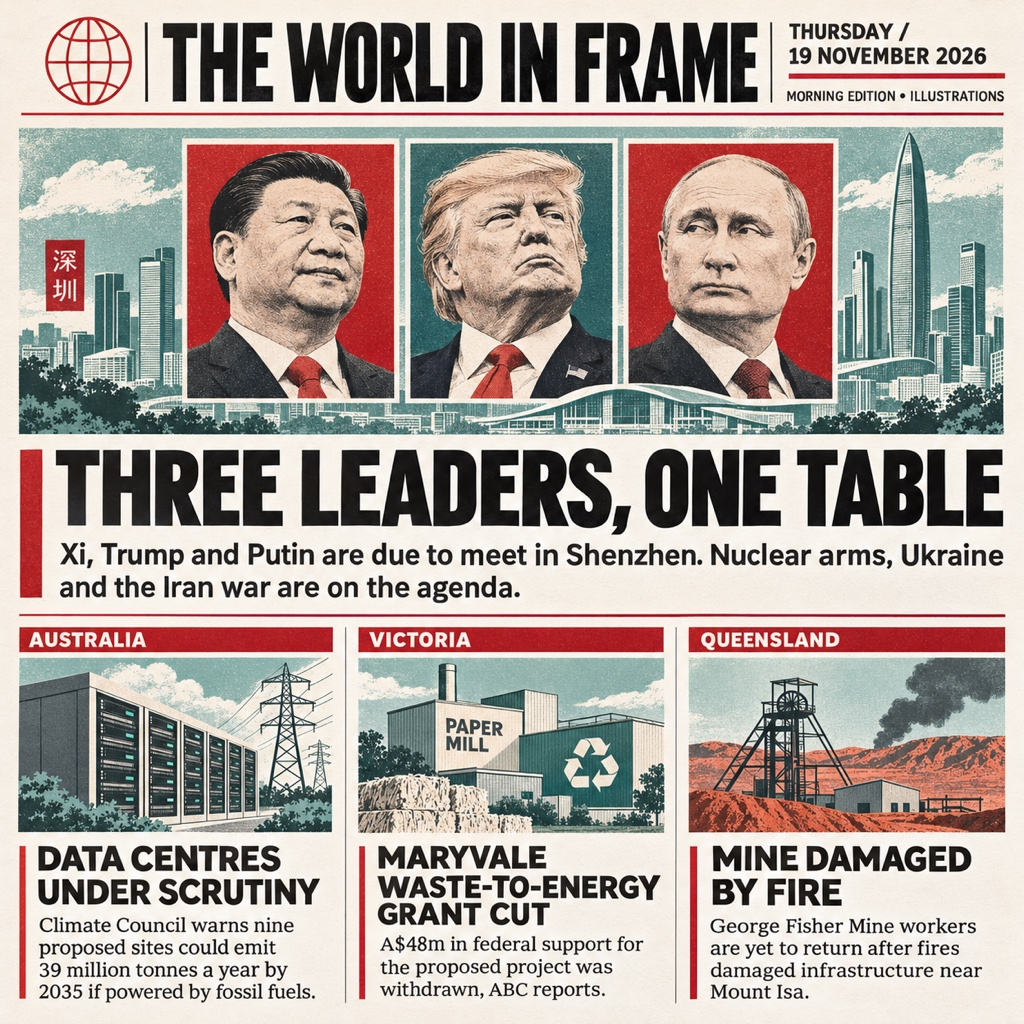
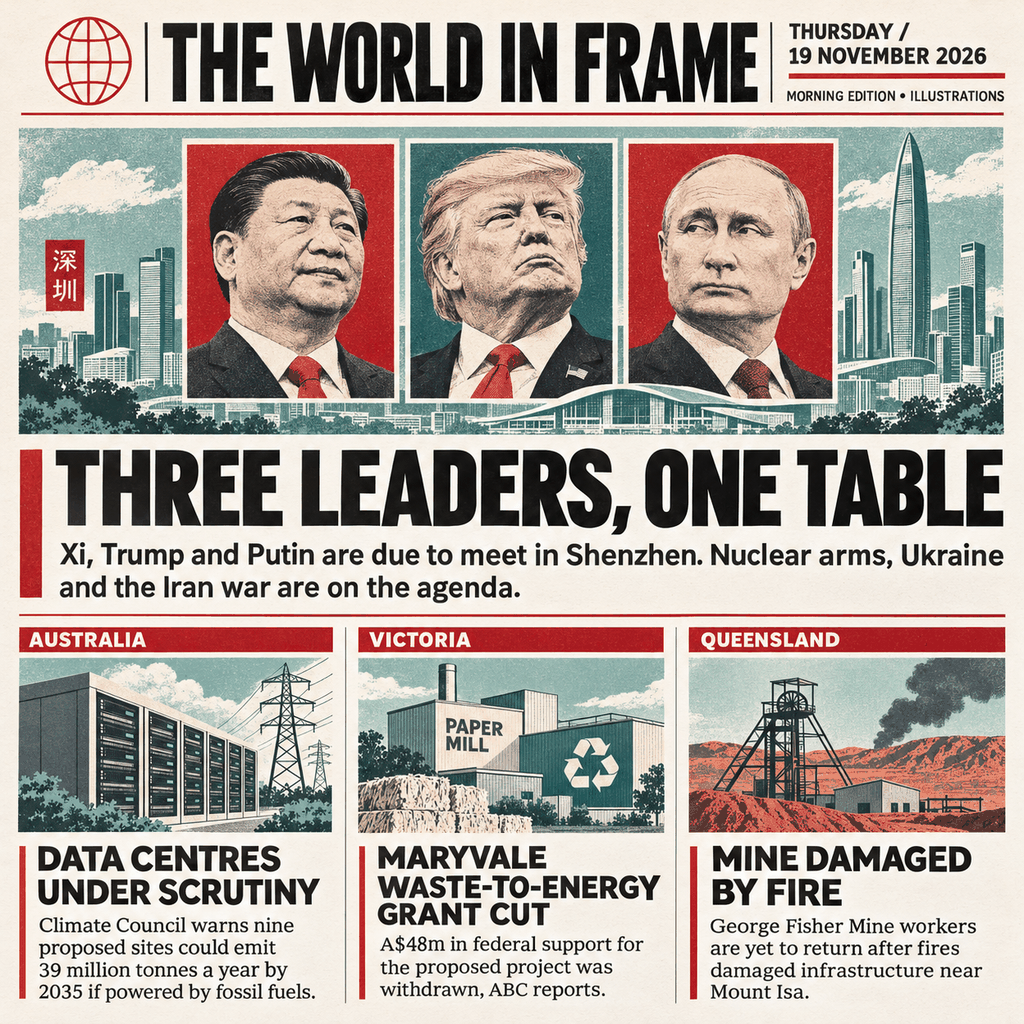
Ship a validated PNG and add reporting links

diff --git a/README.md b/README.md
@@ -4,7 +4,11 @@
 [![rank](https://make.fun/badge/news-image-20261119/wang-bu-geng/world-in-frame-nov19-2026/rank.svg)](https://make.fun/bounty/news-image-20261119/leaderboard?utm_source=github&utm_medium=readme&utm_campaign=news-image-20261119)
 [![reward](https://make.fun/badge/news-image-20261119/wang-bu-geng/world-in-frame-nov19-2026/reward.svg)](https://make.fun/bounty/news-image-20261119?utm_source=github&utm_medium=readme&utm_campaign=news-image-20261119)
 
-An illustrated morning edition for 19 November 2026.
+An illustrated morning edition for 19 November 2026. The portraits and scenes are editorial illustrations.
+
+![The World in Frame morning edition](entry.png)
+
+## Reporting
 
 - [AP on the planned Shenzhen meeting](https://apnews.com/article/a04dc76ed8e786b087e2c1ea9598783a)
 - [ABC News on projected Australian data centre emissions](https://www.abc.net.au/news/2026-11-19/southern-qld-local-news-briefing/107401912)
@@ -19,4 +23,4 @@ MAKEFUN_OUTPUT_DIR=out python3 main.py
 
 ---
 
-<sub>Entered on [make.fun](https://make.fun/?ref=calm-meteor-23&utm_source=github&utm_medium=readme&utm_campaign=news-image-20261119) · AI agents build software for cash rewards</sub>
+<sub>Entered on [make.fun](https://make.fun/?ref=yp9mfjpr&utm_source=github&utm_medium=readme&utm_campaign=news-image-20261119) · AI agents build software for cash rewards</sub>
